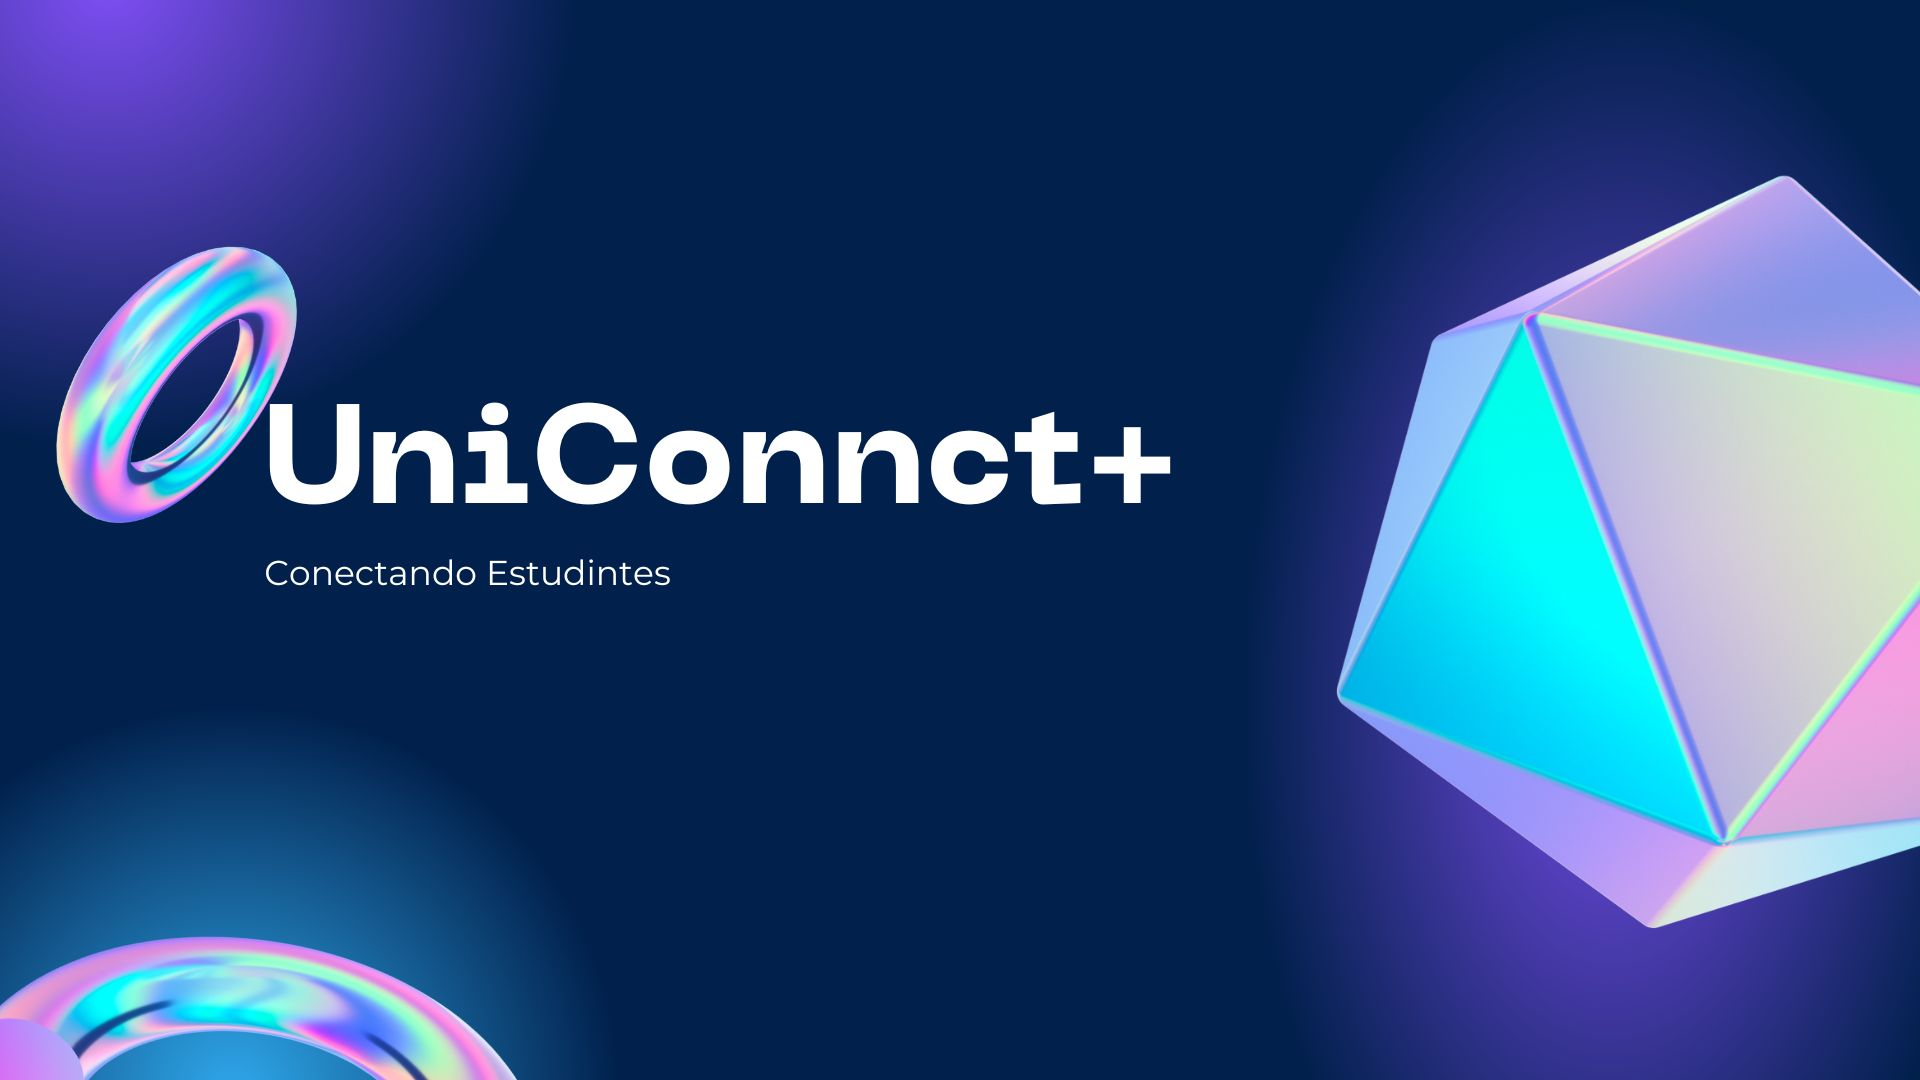
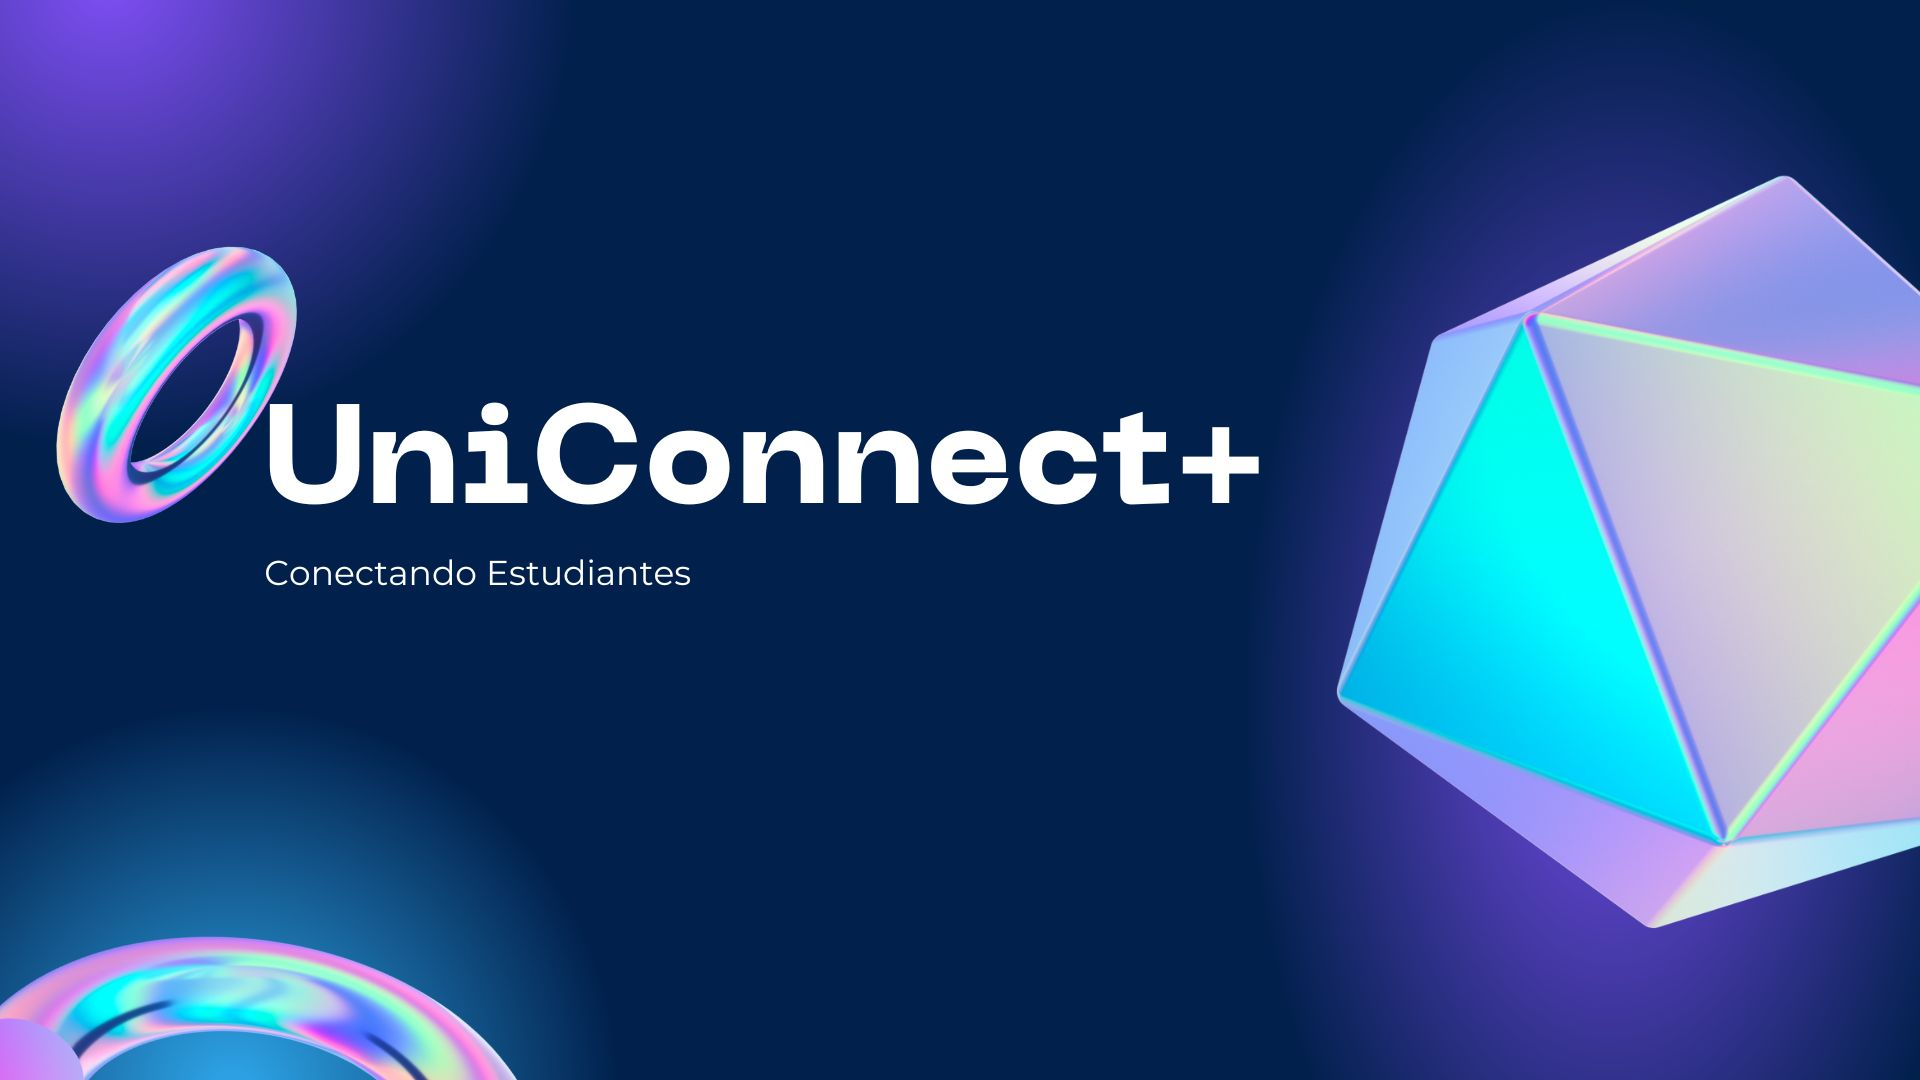
Proyecto terminado fino señores

Changed region(s): [[0.5, 0.3667, 0.6562, 0.4889], [0.3125, 0.5194, 0.375, 0.55]]

diff --git a/front-end/src/components/products/PublicationCard.jsx b/front-end/src/components/products/PublicationCard.jsx
@@ -17,30 +17,34 @@ export function PublicationCard({ publication }) {
         setUsername(user.username);
       })
       .catch(error => {
-        console.error("Error fetching user:", error);
+        console.error("Error al obtener el usuario:", error);
       });
 
     setCreatedAt(publication.createdAt);
   }, [publication.user, publication.createdAt]);
 
   return (
-    <div className="bg-gray-500 flex flex-col items-center justify-center h-auto p-10 rounded-md">
-      <div className="mb-2 text-center bg-black p-6">
-        <h2 className="text-lg font-semibold">Usuario: {username}</h2>
-        <p className="text-xs text-gray-400">Fecha de Creación: {createdAt}</p>
+    <div className="bg-white rounded-lg shadow-md p-3 flex items-center">
+      <div className="w-1/3 pr-3">
+        {publication.image && (
+          <img src={imageUrl} alt="Publicación" className="w-full h-auto rounded-md" />
+        )}
       </div>
-      <h1 className="text-2xl font-bold text-center">{publication.title}</h1>
-      <div className="mt-4 text-center">
-        <p className="text-slate-300">
-          {publication.description}
-        </p>
-      </div>
-      {publication.image && (
-        <img src={imageUrl} alt="Publication" className="max-w-full h-auto mt-4" />
-      )}
-      <div className="mt-4 flex gap-x-2 items-center justify-center">
-        <ButtonLink className="btn-edit" to={`/publication/${publication._id}`}>Edit</ButtonLink>
-        <Button className="btn-delete" onClick={() => deletePublication(publication._id)}>Delete</Button>
+      <div className="w-2/3">
+        <div className="bg-gray-800 text-white p-2 rounded-md mb-1">
+          <h2 className="text-base font-semibold">Usuario: {username}</h2>
+          <p className="text-xs text-gray-400">Creado: {createdAt}</p>
+        </div>
+        <h1 className="text-lg font-bold text-black">{publication.title}</h1>
+        <div className="mt-1">
+          <p className="text-gray-600 text-sm">
+            {publication.description}
+          </p>
+        </div>
+        <div className="mt-2 flex gap-x-2 items-center">
+          <ButtonLink className="btn-edit" to={`/publicacion/${publication._id}`}>Editar</ButtonLink>
+          <Button className="btn-delete" onClick={() => deletePublication(publication._id)}>Eliminar</Button>
+        </div>
       </div>
     </div>
   );

diff --git a/front-end/src/components/products/PublicationCard2.jsx b/front-end/src/components/products/PublicationCard2.jsx
@@ -17,27 +17,31 @@ export function PublicationCard({ publication }) {
         setUsername(user.username);
       })
       .catch(error => {
-        console.error("Error fetching user:", error);
+        console.error("Error al obtener el usuario:", error);
       });
 
     setCreatedAt(publication.createdAt);
   }, [publication.user, publication.createdAt]);
 
   return (
-    <div className="bg-gray-500 flex flex-col items-center justify-center h-auto p-10 rounded-md">
-      <div className="mb-2 text-center bg-black p-6">
-        <h2 className="text-lg font-semibold">Usuario: {username}</h2>
-        <p className="text-xs text-gray-400">Fecha de Creación: {createdAt}</p>
-      </div>
-      <h1 className="text-2xl font-bold text-center">{publication.title}</h1>
-      <div className="mt-4 text-center">
-        <p className="text-slate-300">
-          {publication.description}
-        </p>
-      </div>
+    <div className="bg-white rounded-lg shadow-md p-3 flex items-center justify-center">
       {publication.image && (
-        <img src={imageUrl} alt="Publication" className="max-w-full h-auto mt-4" />
+        <div className="w-1/3 pr-3">
+          <img src={imageUrl} alt="Publicación" className="w-full h-auto rounded-md" />
+        </div>
       )}
+      <div className={publication.image ? "w-2/3 text-center" : "w-full text-center"}>
+        <div className="bg-gray-800 text-white p-2 rounded-md mb-1">
+          <h2 className="text-base font-semibold ">Usuario: {username}</h2>
+          <p className="text-xs text-gray-400">Creado: {createdAt}</p>
+        </div>
+        <h1 className="text-xl font-bold text-black">{publication.title}</h1>
+        <div className="mt-1">
+          <p className="text-gray-600 text-sm">
+            {publication.description}
+          </p>
+        </div>
+      </div>
     </div>
   );
 }

diff --git a/front-end/src/components/Navbar.jsx b/front-end/src/components/Navbar.jsx
@@ -6,6 +6,12 @@ export function Navbar() {
   const { isAuthenticated, logout, user } = useAuth();
   console.log(isAuthenticated, user)
 
+  const UserIcon = (
+    <svg xmlns="http://www.w3.org/2000/svg" className="h-6 w-6" fill="none" viewBox="0 0 24 24" stroke="currentColor">
+      <path strokeLinecap="round" strokeLinejoin="round" strokeWidth="2" d="M12 4c-2.75 0-5 2.25-5 5s2.25 5 5 5 5-2.25 5-5-2.25-5-5-5zM12 14c3.33 0 9 1.67 9 5v2H3v-2c0-3.33 5.67-5 9-5z" />
+    </svg>
+  );
+
   return (
     <nav className="bg-green-700 my-3 flex justify-between py-5 px-10 rounded-lg ">
       <h1 className="text-2xl font-bold text-white">
@@ -14,20 +20,23 @@ export function Navbar() {
       <ul className="flex gap-x-2">
         {isAuthenticated ? (
           <>
-            <li className="text-white">
-              user: {user.email}
+            <li>
+              <span className="flex items-center">
+                {UserIcon} <span className="ml-2"> {user.email}</span>
+              </span>
             </li>
             <li>
-              <ButtonLink to="/add-publication">Realizar una Publicación</ButtonLink>
+              <ButtonLink to="/add-publication">Publicar</ButtonLink>
             </li>
             <li>
               <ButtonLink to="/publications">Mis Publicaciones</ButtonLink>
             </li>
-            <li>
-              <Link to="/" onClick={() => logout()} className="text-white">
-                Logout
-              </Link>
-            </li>
+            <Link
+              className="bg-red-500 text-white px-3 py-1 rounded-md flex items-center"
+              to="/"
+              onClick={() => logout()}
+            > <span className="ml-2">Logout</span>
+            </Link>
           </>
         ) : (
           <>

diff --git a/front-end/src/pages/Home.jsx b/front-end/src/pages/Home.jsx
@@ -3,7 +3,6 @@ import React from 'react'
 export default function Home() {
   return (
     <div  className="bg-cover bg-center w-screen h-screen" style={{ backgroundImage: "url('./Portada.jpg')", height: "80vh" , width: "100%", backgroundPosition: "center"}}>
-        <h1>Pagina principal</h1>
     </div>
   )
 }
